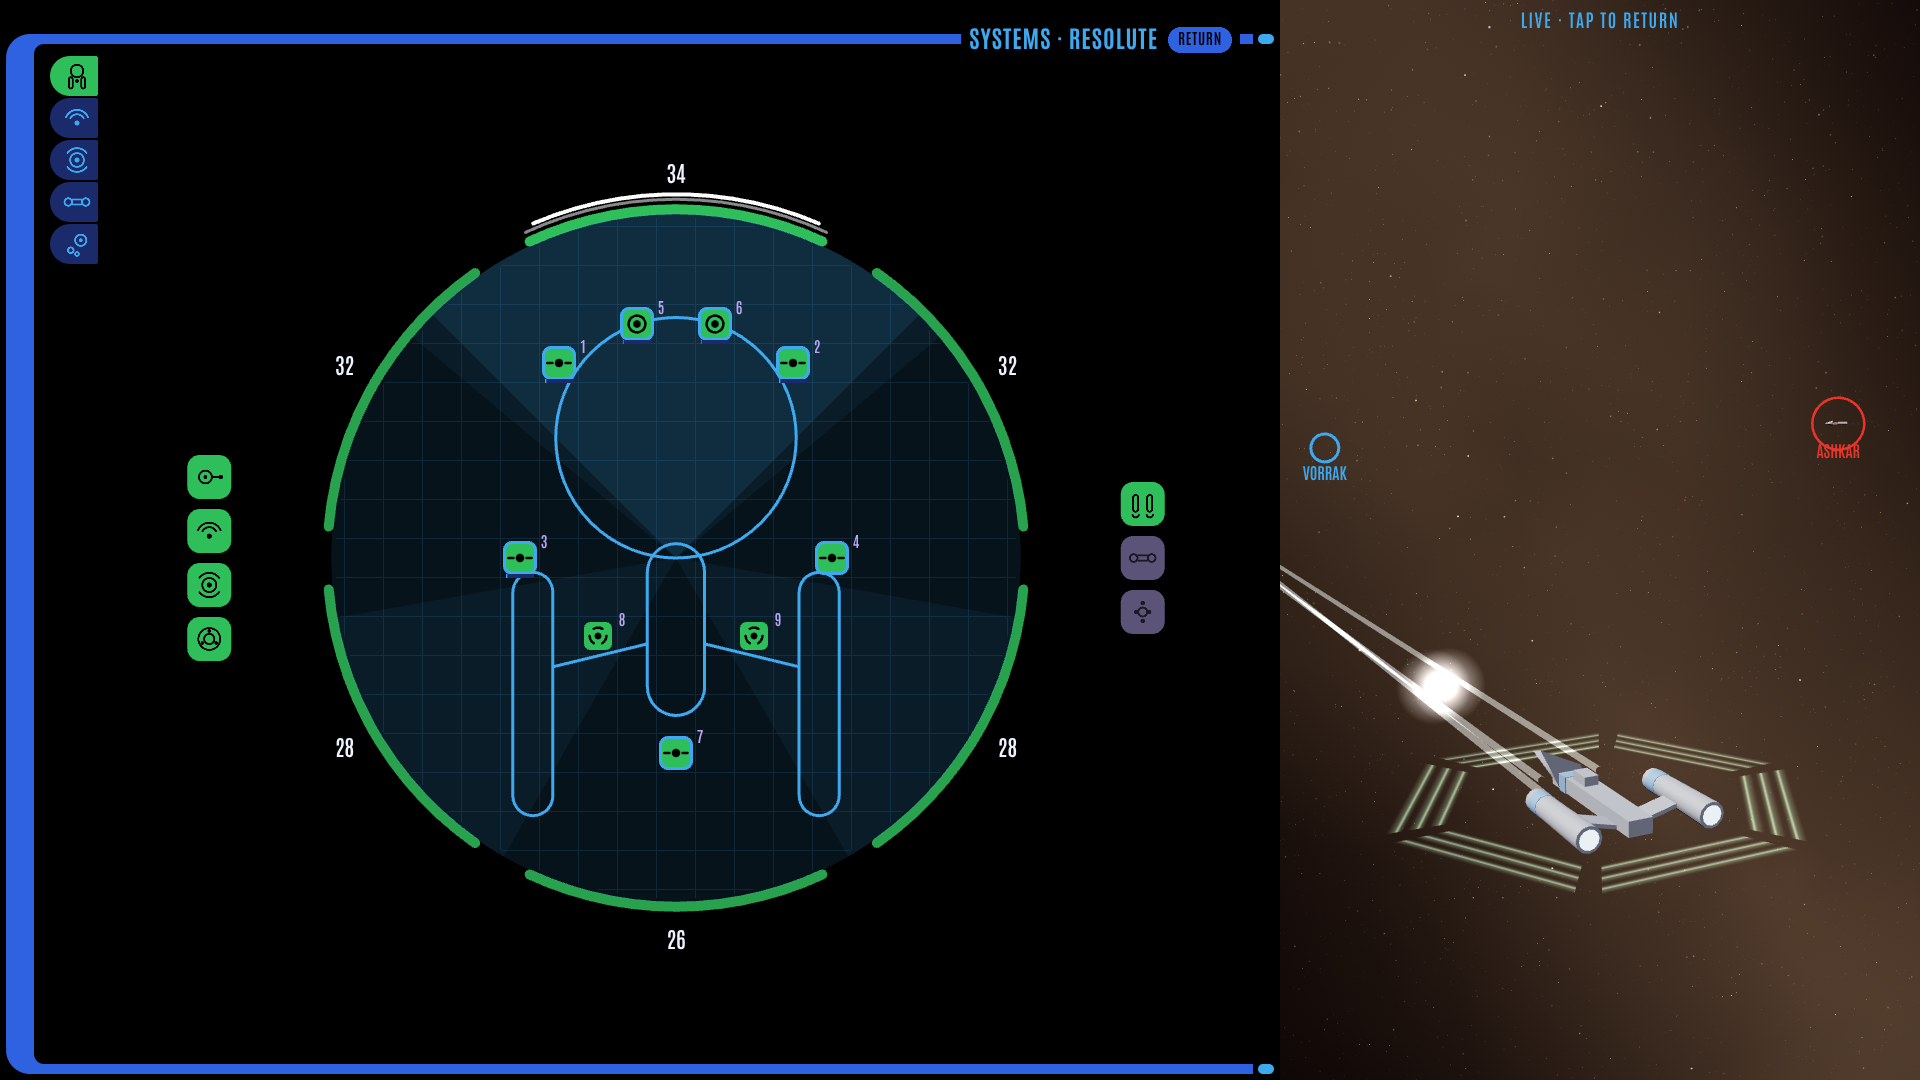
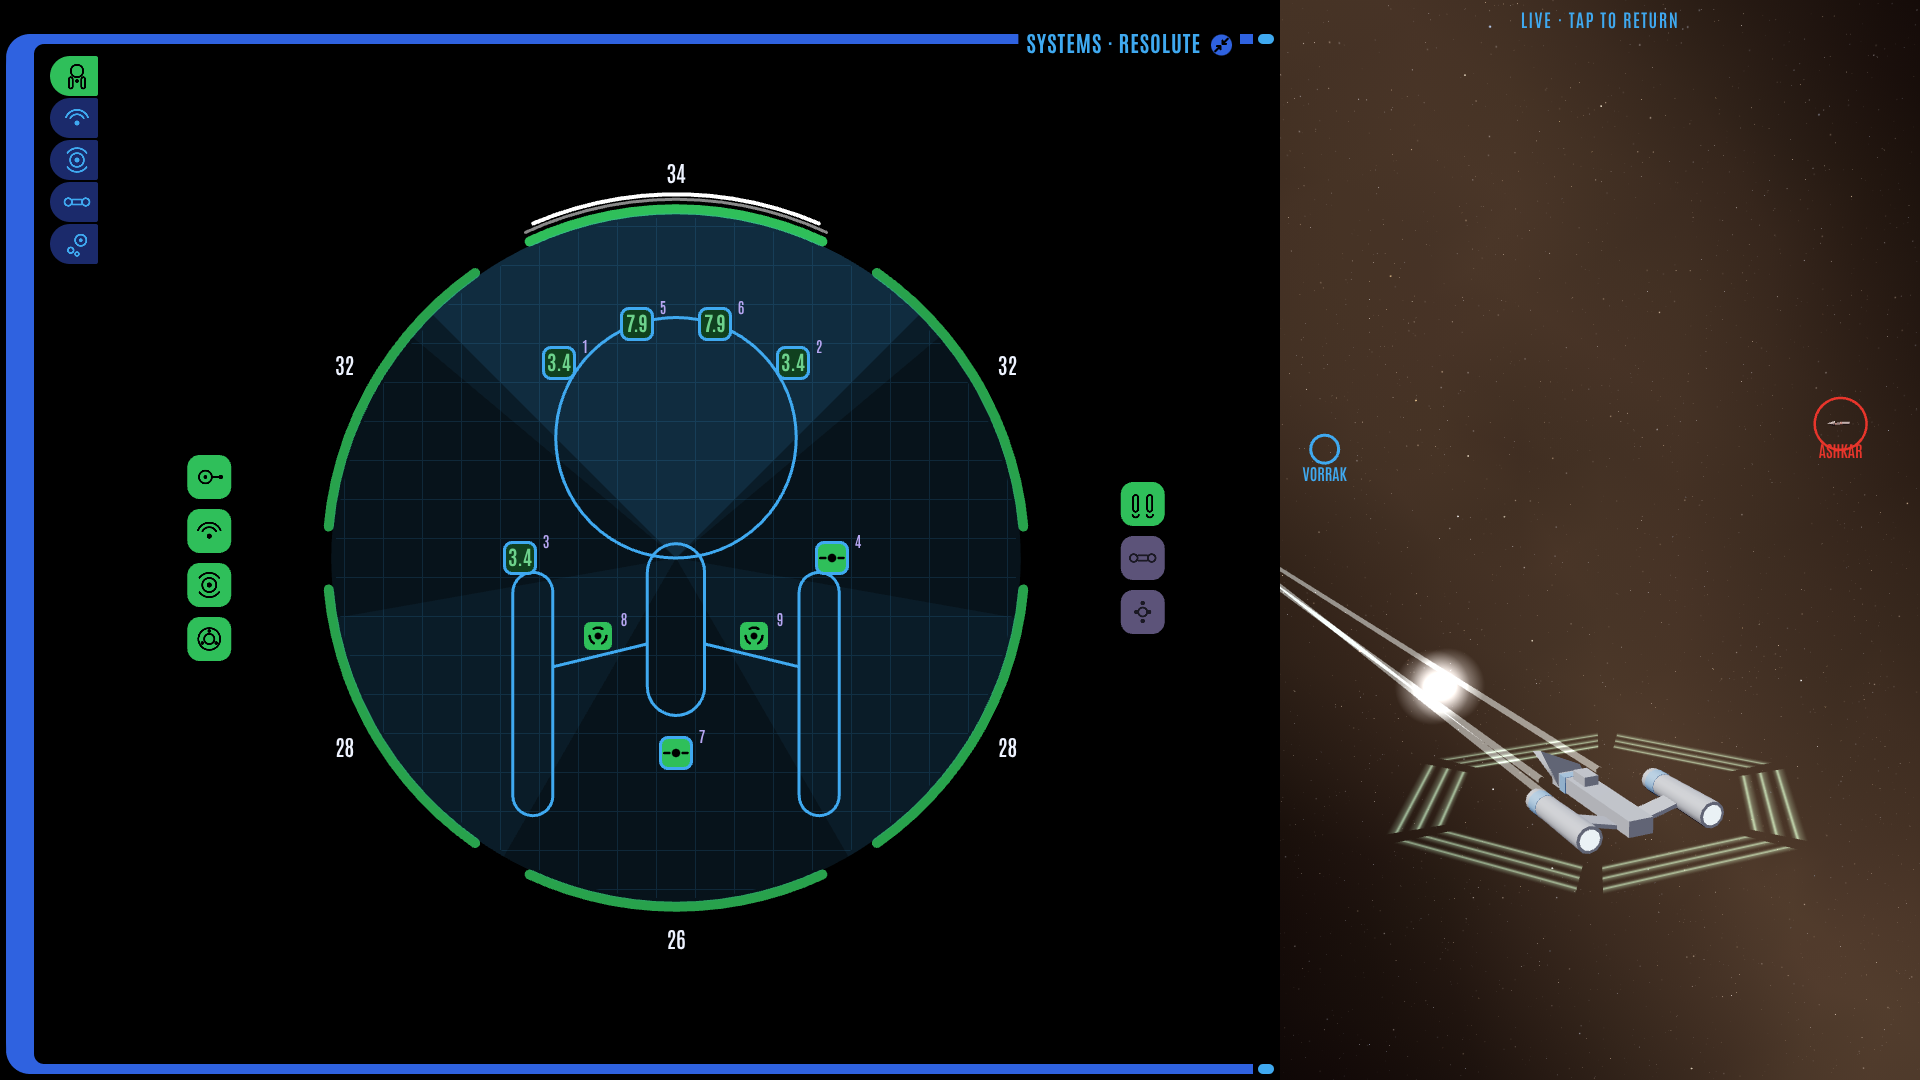
Battle console v30: title plate inside its frame, expand key 20 % smaller
Claude-Session: https://claude.ai/code/session_01RGPQuqAYNNJKpzbbbZ3BfB

diff --git a/docs/mockups/battle-console.html b/docs/mockups/battle-console.html
@@ -1526,12 +1526,15 @@ const FP = CON.kit['frame.panel'].m;
 function panel(id, r, title, big, noX) {
   const [x, y, w, h] = r; nine('frame.panel', x, y, w, h);
   const cx = x + FP[3], cy = y + FP[0], cw = w - FP[1] - FP[3], ch = h - FP[0] - FP[2];
-  g.font = '700 24px Antonio'; g.letterSpacing = '1px'; const tw = Math.min(g.measureText(title.toUpperCase()).width, cw - 160); g.letterSpacing = '0px';
-  const bw = noX ? -10 : 26;
-  const x1 = cx + cw - 6, total = 8 + tw + 10 + bw + 8, x0 = x1 - total, ty = cy - 29;
-  g.fillStyle = '#000'; g.fillRect(x0, ty, total, 26);
-  text(title.toUpperCase(), x0 + 8, ty + 22, '700 24px Antonio', CC.sky, 'left', tw, '1px');
-  if (!noX) expandKey(`${id}.xp`, x1 - 8 - bw / 2, ty + 13, 13, big, () => A.expand(id));
+  g.font = '700 22px Antonio'; g.letterSpacing = '1px'; const tw = Math.min(g.measureText(title.toUpperCase()).width, cw - 160); g.letterSpacing = '0px';
+  // the expand key, 20 % smaller than the 26 px first drawn (owner, 2026-11-02: "it should be 20% smaller")
+  const bw = noX ? -10 : 21;
+  // the title's plate starts at the frame's top edge, never above it (owner: "whatever background is around 'systems -
+  // resolute' is overlapping the upper border"): it breaks the top arm and stops short of the content
+  const x1 = cx + cw - 6, total = 8 + tw + 10 + bw + 8, x0 = x1 - total, ty = y;
+  g.fillStyle = '#000'; g.fillRect(x0, ty, total, 22);
+  text(title.toUpperCase(), x0 + 8, ty + 19, '700 22px Antonio', CC.sky, 'left', tw, '1px');
+  if (!noX) expandKey(`${id}.xp`, x1 - 8 - bw / 2, ty + 11, bw / 2, big, () => A.expand(id));
   return { x: cx, y: cy, w: cw, h: ch };
 }
 // The expand key (owner, 2026-11-02: "expand button should look like this, be a circle, small", with a square icon of
@@ -2573,7 +2576,7 @@ function uiView() {
     button('v.camlock', bx, by + ir[3] + 6, ir[2], 30, camLock ? 'Camera locked' : 'Lock camera', A.camLock, { sel: () => camLock, center: true });
   }
   if (lock) button('v.lock', lock[0], lock[1], 140, 30, 'Lock target', () => A.lock(lock[2]), { center: true });
-  LBL('Mockup 2 · Battle console · Concord · v29', vx + vw - 104, vy + vh - 20, 0, '#6f7fb4', 'right', 13);
+  LBL('Mockup 2 · Battle console · Concord · v30', vx + vw - 104, vy + vh - 20, 0, '#6f7fb4', 'right', 13);
   button('v.reset', vx + vw - 92, vy + vh - 42, 78, 30, 'Reset', A.reset, { center: true });
   if (sceneOpen) {
     // a click anywhere else closes the list

diff --git a/docs/mockups/tracker.html b/docs/mockups/tracker.html
@@ -111,7 +111,7 @@ const MOCKUPS = [
     url: 'https://claude.ai/artifact/UBbAouwAU3JvcbGf6MhzLt', published: '2026-10-30', version: 5,
     summary: 'Main menu, skirmish (scenario, point budget, fleet and loadout), the campaign hex map with standees, port panels and missions, deploy, a stand-in battle, results, and back to the map.' },
   { id: 'M2', title: 'In-game UI', change: 'battle-console', page: 'docs/mockups/battle-console.html',
-    url: 'https://claude.ai/artifact/9yertq3bYQRmFiDE7N9eBs', published: '2026-11-02', version: 29,
+    url: 'https://claude.ai/artifact/9yertq3bYQRmFiDE7N9eBs', published: '2026-11-02', version: 30,
     summary: 'The battle console in the Concord skin around a live stand-in battle, desktop first: nine stations and five ship pages on narrow columns of icon tabs named on hover, the ship systems display, weapons, radar and tactical map, a speed handle, Power over Systems with the battery, and the power station\'s Reactor mode: a diagram of the core, coils and coolant loops worked by hand, with a meltdown to avoid. Every panel works and expands.' },
   { id: 'M3', title: 'Look dev', change: 'look-dev', page: 'docs/mockups/look-dev.html',
     url: '', published: '', version: 0,

diff --git a/openspec/changes/battle-console/design.md b/openspec/changes/battle-console/design.md
@@ -287,9 +287,12 @@ only by turning your beam; whether enemies should start a hold on their own is B
 ## 4f. The expand key (version 28)
 
 Owner, 2026-11-02: "expand button should look like this, be a circle, small", with a square icon of two diagonal arrows
-pointing out to its corners. Every panel's Expand pill becomes a small round key (26 px across, a 34 px touch area)
+pointing out to its corners. Every panel's Expand pill becomes a small round key (21 px across after the owner's "it should be 20% smaller", a
+29 px touch area)
 beside the panel's title: two arrows pointing out to the top-right and bottom-left corners; on an expanded panel they
-point in, and the key returns the panel. Its name (Expand, Return) shows on hover, as every icon key's does.
+point in, and the key returns the panel. Its name (Expand, Return) shows on hover, as every icon key's does. The title's black plate starts at the
+frame's top edge and stops at the content (22 px), so it breaks only its own frame's top arm, never the gap or the panel
+above (owner, 2026-11-02: "whatever background is around 'systems - resolute' is overlapping the upper border").
 
 ## 4e. The camera lock (version 27)
 

diff --git a/docs/artifacts/battle-console/README.md b/docs/artifacts/battle-console/README.md
@@ -47,3 +47,4 @@
 - Version 27 published 2026-11-02, version id `1793580688-9bf9`: the camera lock (locking a target yaws the chase camera to face it, smoothed by a critically damped spring; a drag frees it; Lock camera under the Target box), after Fargo's CameraSystem.
 - Version 28 published 2026-11-02, version id `1793580890-bd74`: the panels' Expand pill replaced by a small round key with diagonal arrows (pointing in to return), names on hover.
 - Version 29 published 2026-11-02, version id `1793581929-1c47`: the warp drive (Power, Warp mode): nacelles with draw and damage, banks, course plot, six risk factors and the jump risk, the safety override near a neutron star, the jump and its mishaps; a Warp test scene (change `warp`).
+- Version 30 published 2026-11-02, version id `1793582380-60b2`: panel titles' black plate starts at the frame's top edge (no longer cutting the panel above); expand key 20 % smaller (21 px).

diff --git a/mockup-work.md b/mockup-work.md
@@ -22,7 +22,7 @@ account and every link here is updated.
 | # | Mockup | Stage | OpenSpec change | Page | Link |
 |---|---|---|---|---|---|
 | 1 | Primary game flow | Drafted (2026-10-30, v5) | `game-flow` | `docs/mockups/game-flow.html` | https://claude.ai/artifact/UBbAouwAU3JvcbGf6MhzLt |
-| 2 | In-game UI | Drafted (2026-11-02, v29) | `battle-console` | `docs/mockups/battle-console.html` | https://claude.ai/artifact/9yertq3bYQRmFiDE7N9eBs |
+| 2 | In-game UI | Drafted (2026-11-02, v30) | `battle-console` | `docs/mockups/battle-console.html` | https://claude.ai/artifact/9yertq3bYQRmFiDE7N9eBs |
 | 3 | Look dev | Listed | `look-dev` (to write) | `docs/mockups/look-dev.html` | |
 | 4 | Console skins | Drafted (2026-10-31, v25) | `console-skins` | `docs/mockups/console-skins.html` | https://claude.ai/artifact/UTpgsPvZJrLfkEUmJN7CVb |
 
